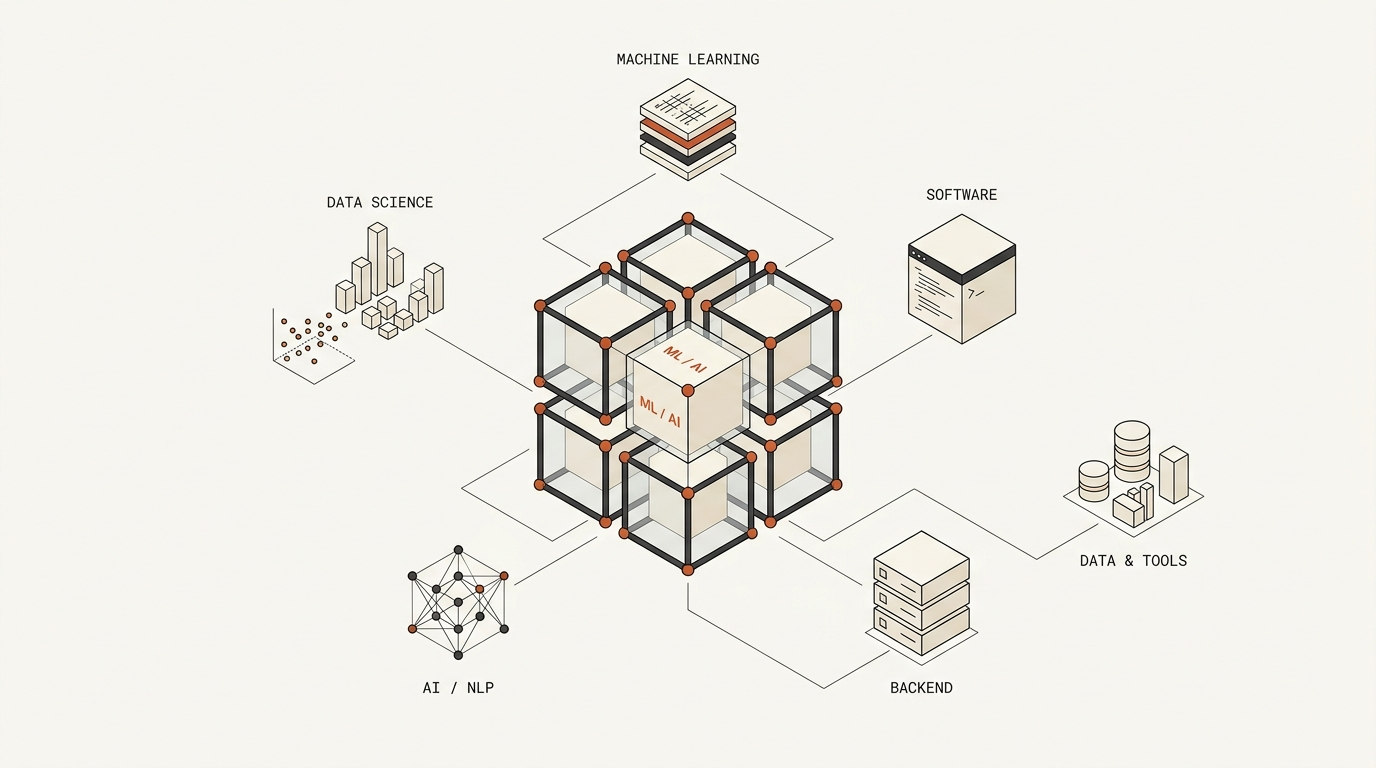
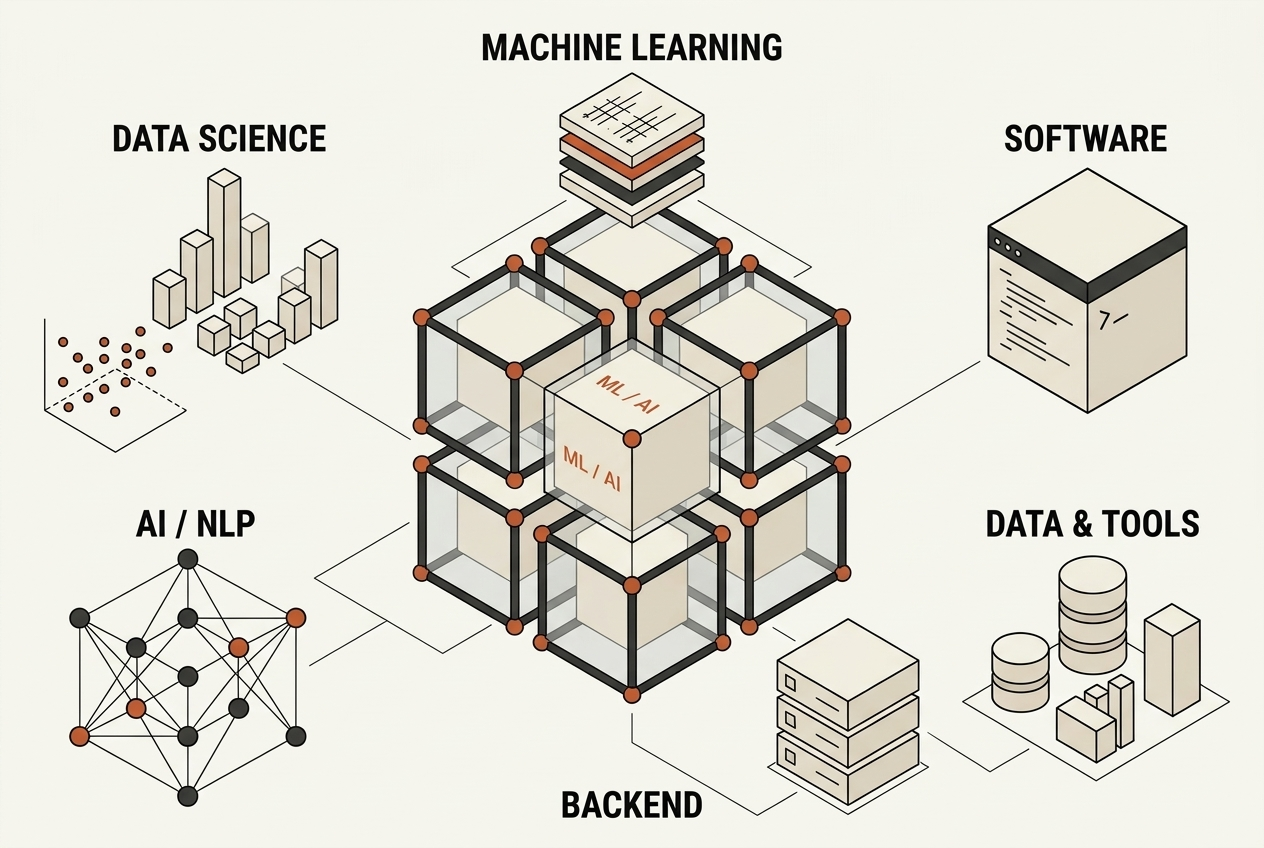
feat: scale up hero illustration with prominent central AI core and bold legible module labels

diff --git a/src/app/page.tsx b/src/app/page.tsx
@@ -156,8 +156,8 @@ export default function HomePage() {
                 <Image
                   src="/hero-visual.jpg"
                   alt="Machine learning, AI, data science and software development architecture visualization"
-                  width={1390}
-                  height={780}
+                  width={1264}
+                  height={848}
                   priority
                   sizes="(max-width: 768px) 90vw, (max-width: 1024px) 80vw, (max-width: 1280px) 50vw, 600px"
                   className="w-full h-auto object-contain select-none"
